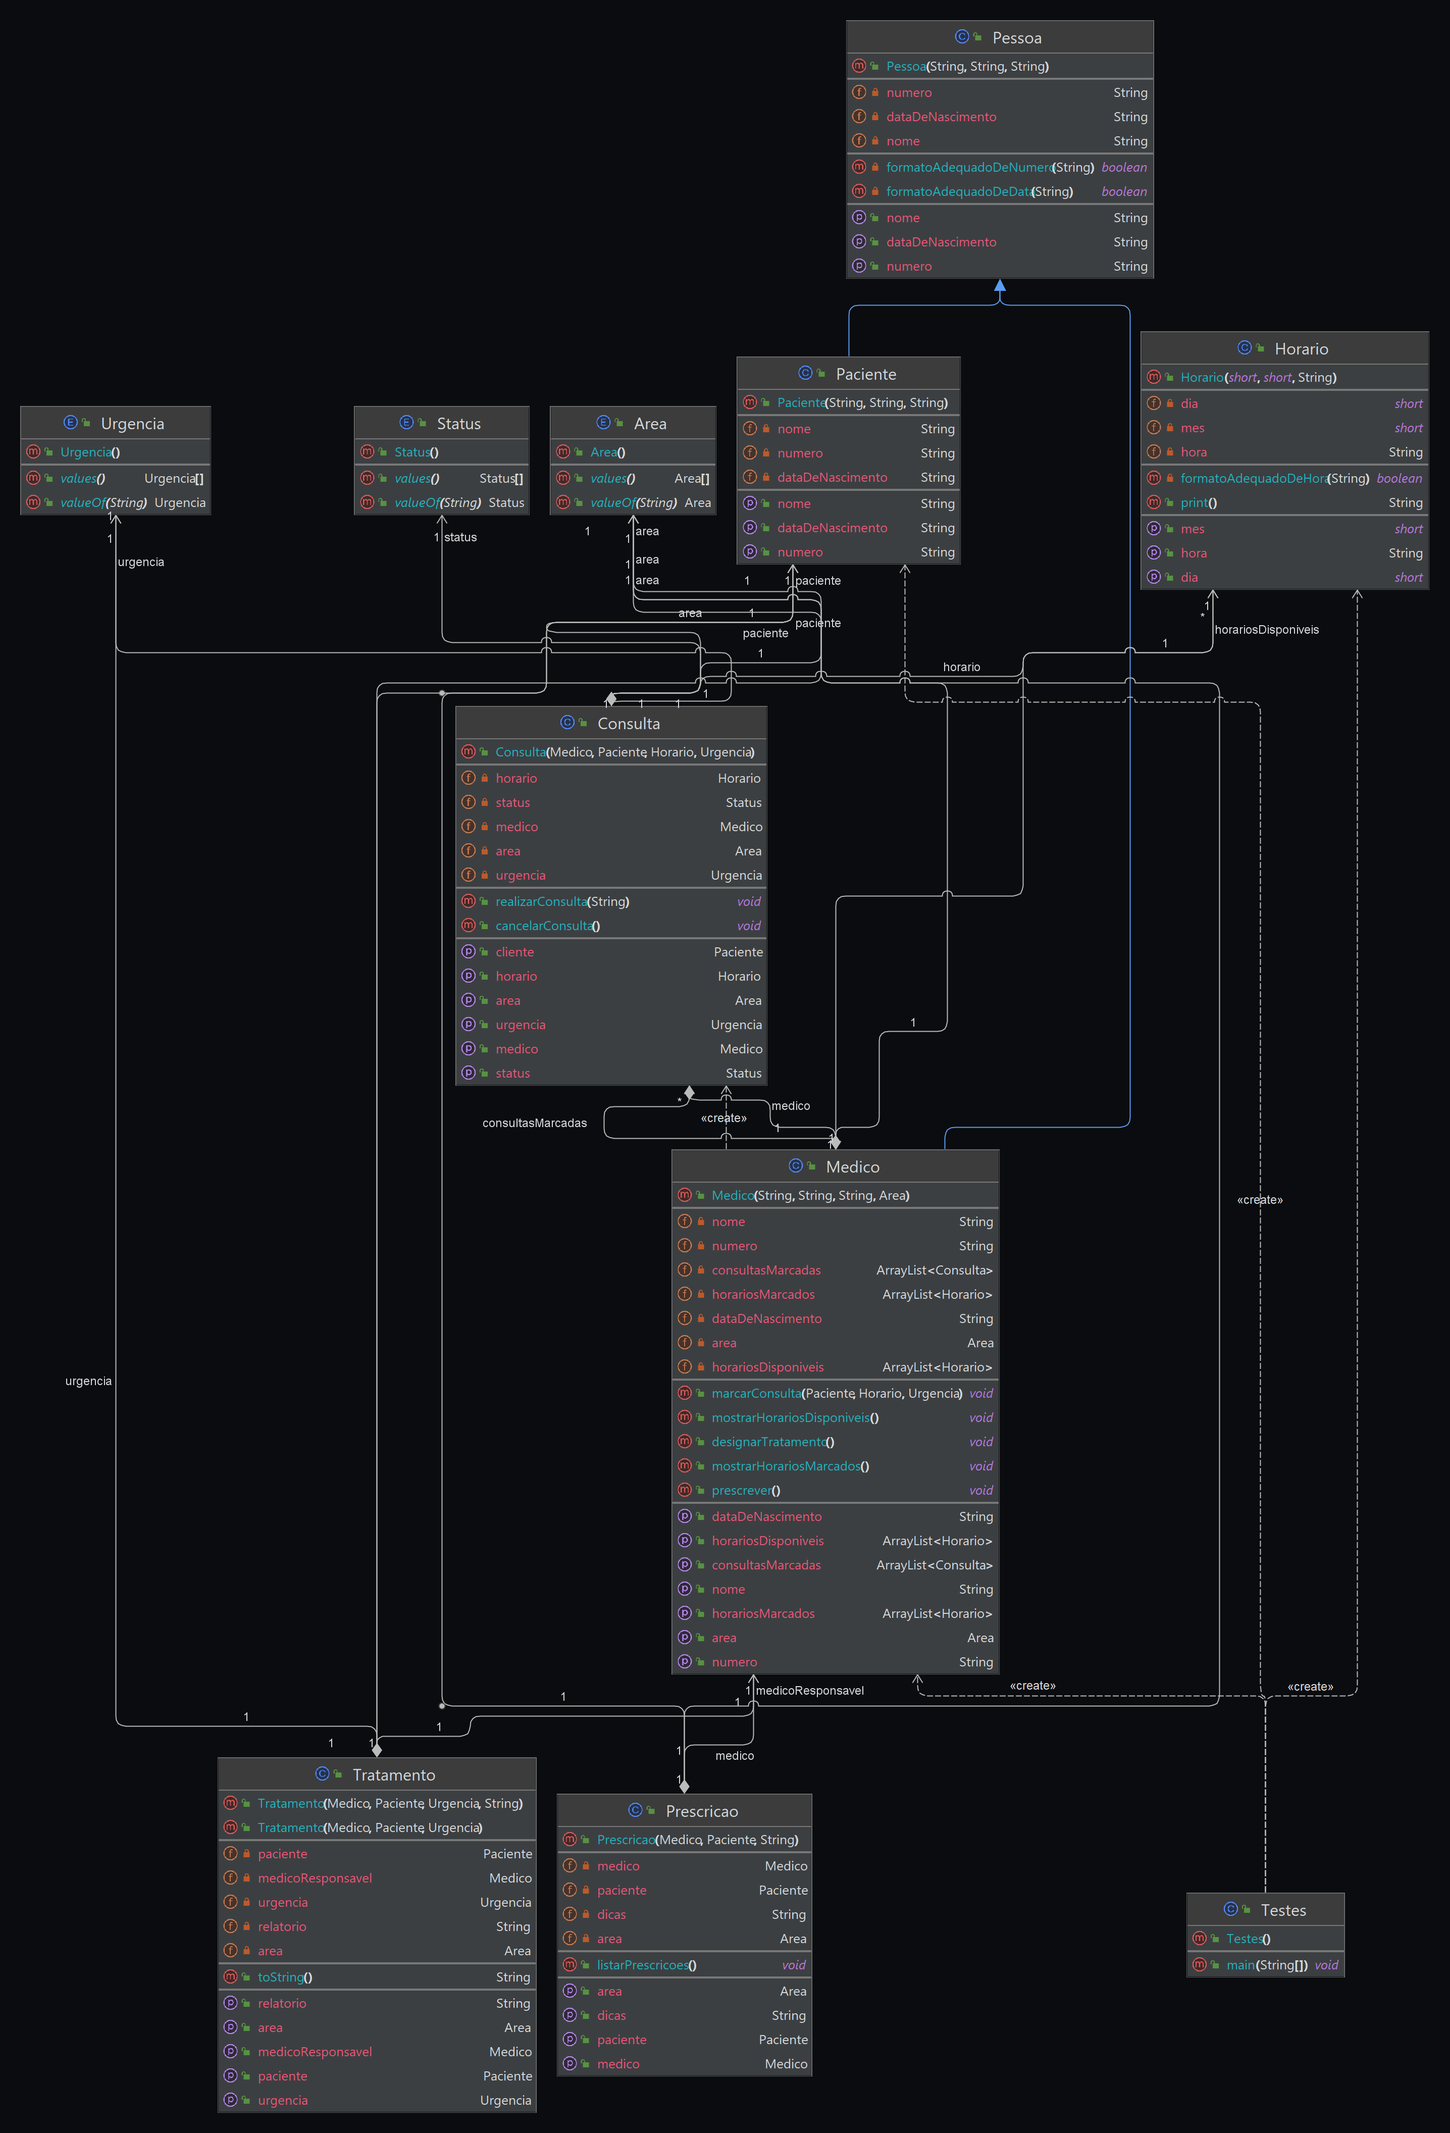
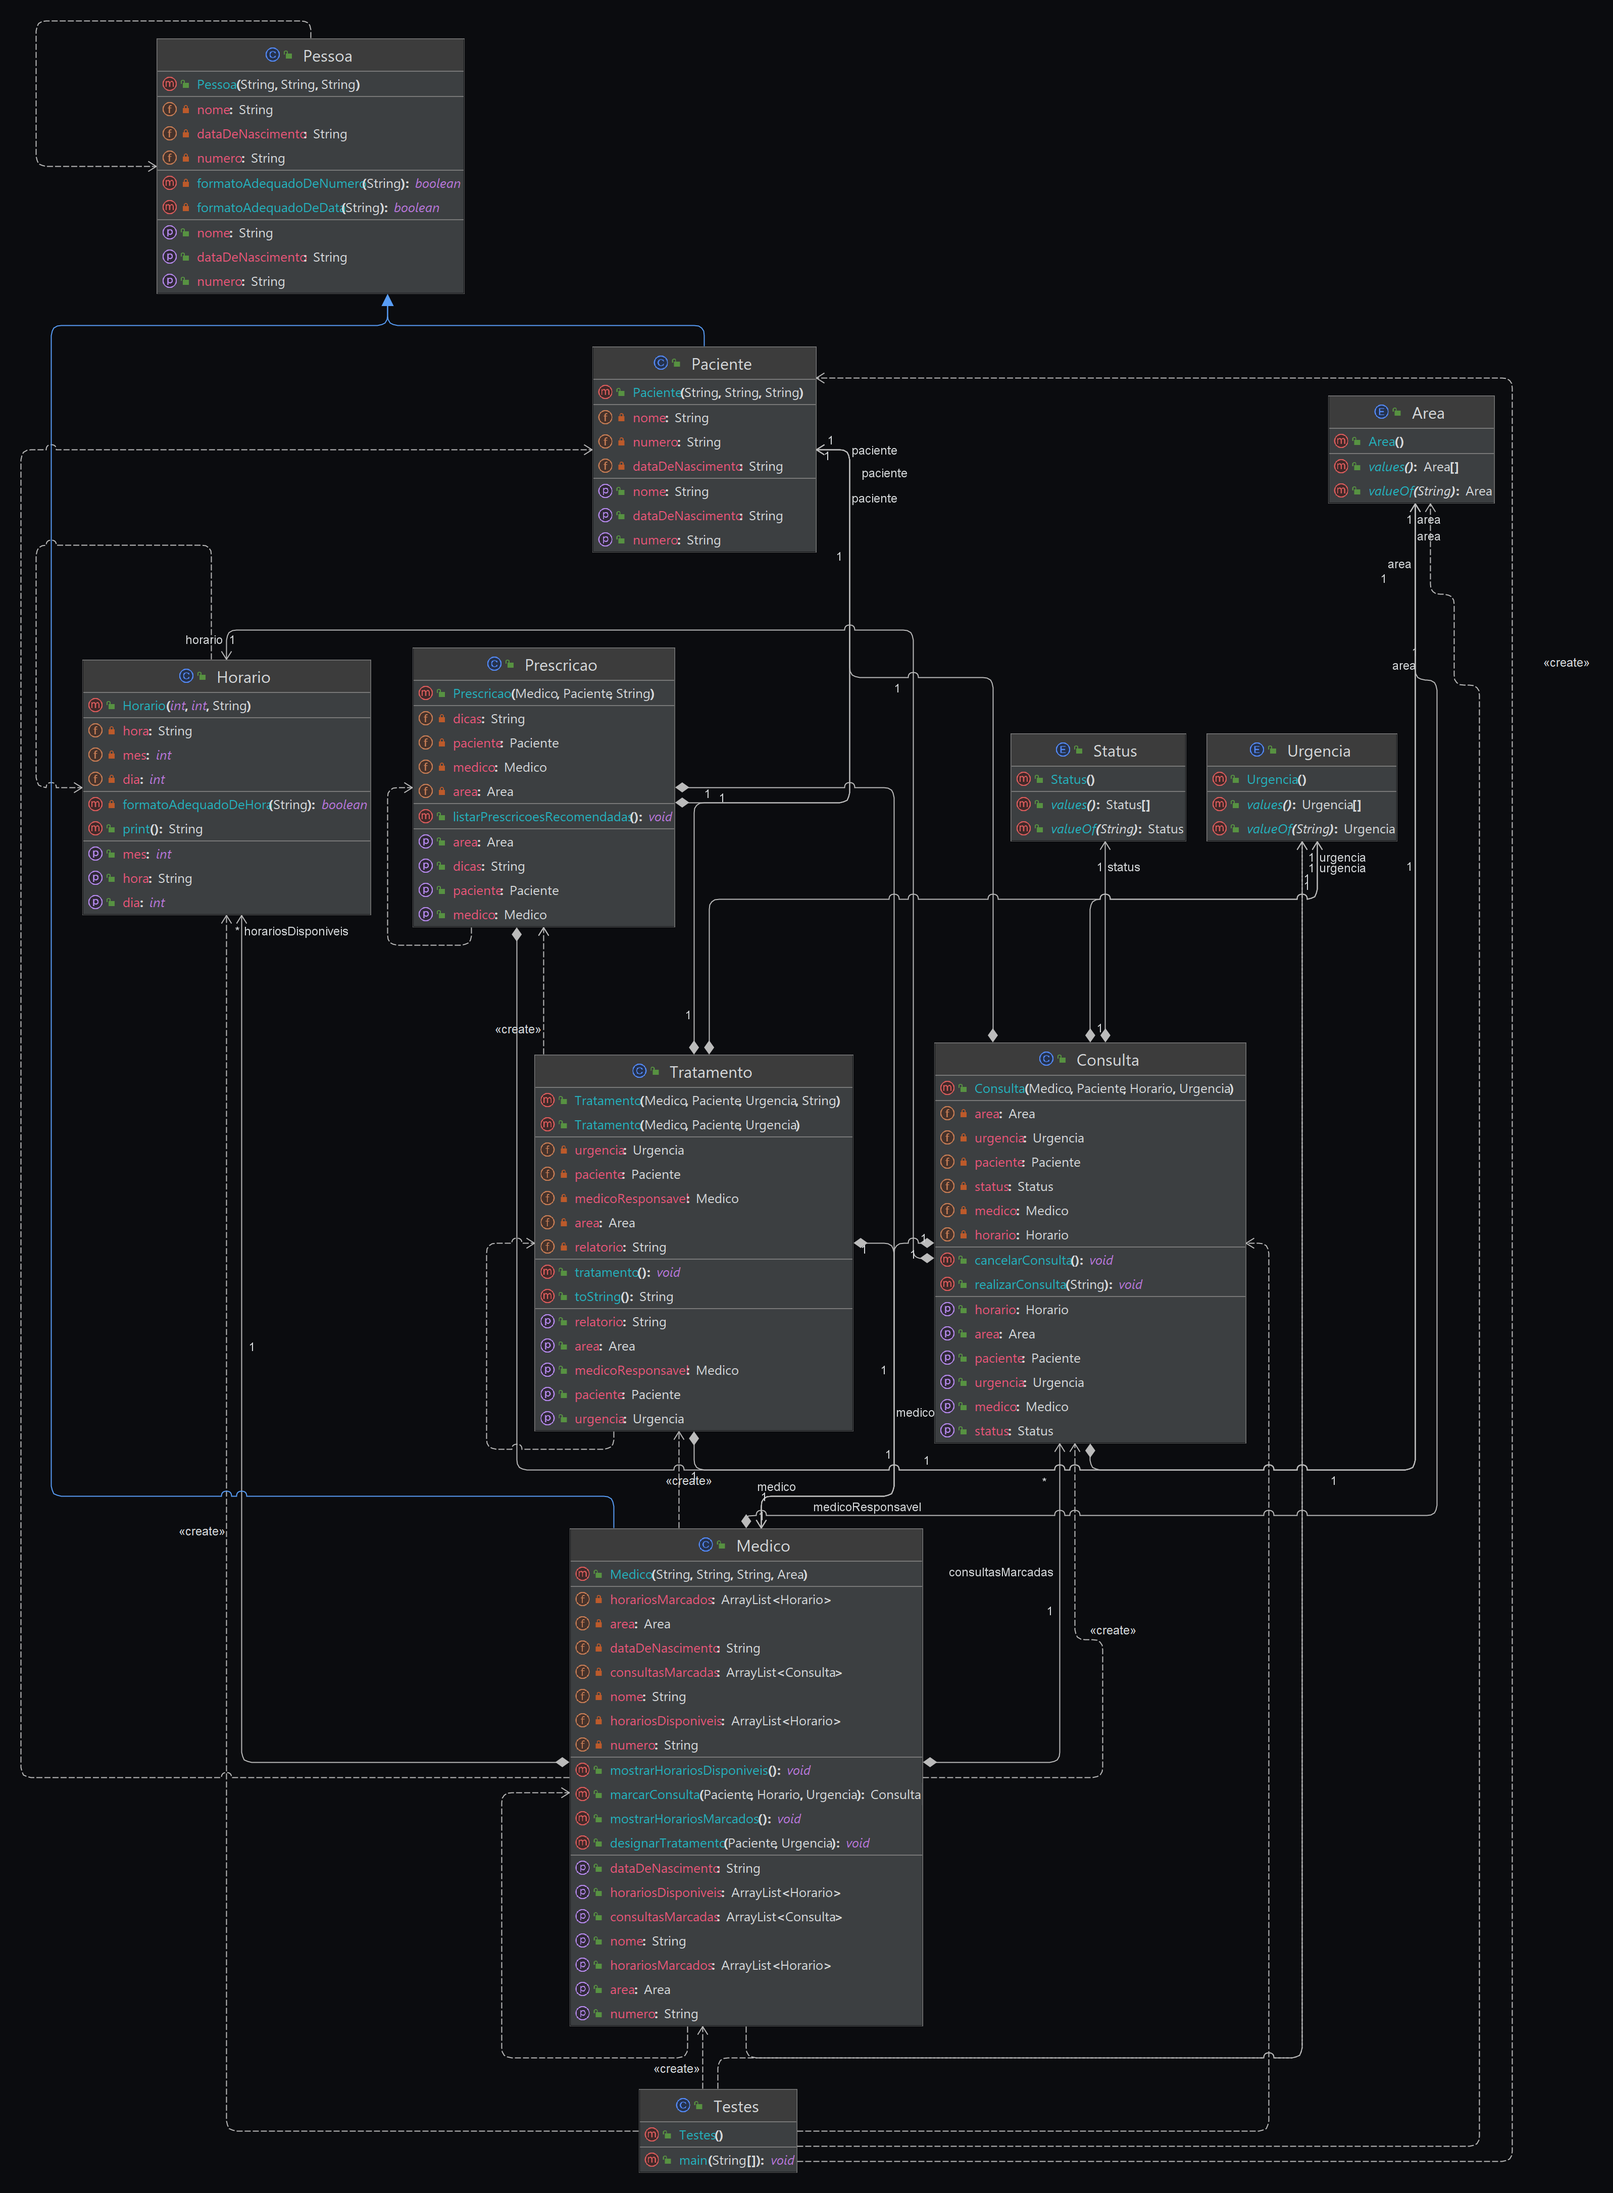
Conclusão parcial, para revisão

diff --git a/src/services/Prescricao.java b/src/services/Prescricao.java
@@ -6,13 +6,17 @@ import resources.Area;
 
 public class Prescricao {
 
-    private final Area area;
+    private Area area;
     private final Medico medico;
     private final Paciente paciente;
     private final String dicas;
 
     public Area getArea() {
         return area;
+    }
+
+    public void setArea(Area area) {
+        this.area = area;
     }
 
     public Medico getMedico() {
@@ -30,70 +34,93 @@ public class Prescricao {
     public Prescricao(Medico medico, Paciente paciente, String dicas){
         this.medico = medico;
         this.paciente = paciente;
-        this.area = medico.getArea();
+        this.setArea(medico.getArea());
         this.dicas = dicas;
     }
 
-    public void listarPrescricoes(){
+    public void listarPrescricoesRecomendadas(){
         switch (this.area) {
-            case Geral -> {
-                System.out.println("""
-                        (1) Paracetamol, para dor
-                        (2) Epinefrina (EpiPen), para alergia
-                        (3) Solução salína (soro caseiro) e boa alimentação, para desidratação ou dor leve
-                        """);
-            }
-            case Oncologia -> {
-                System.out.println("""
-                        (1) Quimioterapia
-                        (2) Radioterapia
-                        (3) Imunoterapia
-                        """);
-            }
-            case Pediatria -> {
-                System.out.println("""
-                        (1) Xarope
-                        (2) Colecalciferol (Vitamina D3)
-                        (3) Óxido de Zinco (bebês)
-                        """);
-            }
-            case Ortopedia -> {
-                System.out.println("""
-                        (1) Anti-inflamatório
-                        (2) Aparelho ortopédico para suporte
-                        (3) Gel de resfriamento
-                        """);
-            }
-            case Neurologia -> {
-                System.out.println("""
-                        (1) Anticonvulsivante para controle de epilepsia: Carbamazepina, Lamotrigina
-                        (2) Analgésico para enxaqueca: Sumatriptano
-                        (3) Fisioterapia neural
-                        """);
-            }
-            case Alergologia -> {
-                System.out.println("""
-                        (1) 
-                        (2) 
-                        (3) 
-                        """);
-            }
-            case Ginecologia -> {
-                System.out.println("""
-                        (1) Contraceptivo oral: Levonorgestrel + Etinilestradiol
-                        (2) Ácido Fólico (gestantes)
-                        (3) Ciprofloxacino (trato urinário)
-                        """);
-            }
-            case Odontologia -> {
-                System.out.println("""
-                        (1) Enxaguatório bucal para higiene oral: Clorexidina, Flúor
-                        (2) Analgésico para dor
-                        (3) Creme e fio dental
-                        """);
-            }
-
-            //(...)
+            case Geral -> System.out.println("""
+                    (1) Paracetamol, para dor
+                    (2) Epinefrina (EpiPen), para alergia
+                    (3) Solução salína (soro caseiro) e boa alimentação, para desidratação ou dor leve
+                    """);
+            case Oncologia -> System.out.println("""
+                    (1) Quimioterapia
+                    (2) Radioterapia
+                    (3) Imunoterapia
+                    """);
+            case Pediatria -> System.out.println("""
+                    (1) Xarope
+                    (2) Colecalciferol (Vitamina D3)
+                    (3) Óxido de Zinco (bebês)
+                    """);
+            case Ortopedia -> System.out.println("""
+                    (1) Anti-inflamatório
+                    (2) Aparelho ortopédico para suporte
+                    (3) Gel de resfriamento
+                    """);
+            case Neurologia -> System.out.println("""
+                    (1) Anticonvulsivante para controle de epilepsia: Carbamazepina, Lamotrigina
+                    (2) Analgésico para enxaqueca: Sumatriptano
+                    (3) Fisioterapia neural
+                    """);
+            case Alergologia -> System.out.println("""
+                    (1) Corticosteroides Nasais (Fluticasona) - Rinite
+                    (2) Antihistamínicos - Rinite
+                    (3) Corticosteroides Inalados (Budesonida) - Asma
+                    """);
+            case Ginecologia -> System.out.println("""
+                    (1) Contraceptivo oral: Levonorgestrel + Etinilestradiol
+                    (2) Ácido Fólico (gestantes)
+                    (3) Ciprofloxacino (trato urinário)
+                    """);
+            case Odontologia -> System.out.println("""
+                    (1) Enxaguatório bucal para higiene oral: Clorexidina, Flúor
+                    (2) Analgésico para dor
+                    (3) Creme e fio dental
+                    """);
+            case Cardiologia -> System.out.println("""
+                    (1) Anti-hipertensivo para controle da pressão arterial: Losartana, Atenolol
+                    (2) Aspirina para prevenção de eventos cardiovasculares: Ácido Acetilsalicílico
+                    (3) Estatina para controle do colesterol: Atorvastatina, Rosuvastatina
+                    """);
+            case Oftalmologia -> System.out.println("""
+                    (1) Colírio de Tobramicina ou Ofloxacino (Conjuntivite)
+                    (2) Colírios de Prostaglandinas ou Beta-bloqueadores (Glaucoma)
+                    (3) Colírio de Anti-inflamatório Não Esteroidal, Esteroidal ou de Antibiótico (Catarata)
+                    """);
+            case Hematologia -> System.out.println("""
+                    (1) Anemia Ferropriva: Suplemento de Ferro, Ácido Fólico, Vitamina B12\s
+                    (2) Leucemia Mieloide Aguda: Quimioterapia por Indução (Citarabina, Daunorrubicina) ou Transplante de Medula Óssea
+                    (3) Trombose Venosa Profunda: Anticoagulantes (Varfarina, Enoxaparina) ou Trombolíticos
+                    """);
+            case Psiquiatria -> System.out.println("""
+                    (1) Antidepressivo: Sertralina, Escitalopram
+                    (2) Ansiolítico: Alprazolam, Diazepam
+                    (3) Terapia cognitivo-comportamental: Tratamento não medicamentoso
+                    """);
+            case Dermatologia -> System.out.println("""
+                    (1) Creme hidratante
+                    (2) Pomada anti-inflamatória para eczema
+                    (3) Protetor solar de amplo espectro (FPS)
+                    """);
+            case Infectologia -> System.out.println("""
+                    (1) Antibióticos bacterianos (Infecção Respiratória Bacteriana)
+                    (2) Antibióticos e analgésicos (Infecção do Trato Urinário)
+                    (3) Terapia Antirretroviral e Profilaxia para Infecções Oportunistas (HIV/AIDS)
+                    """);
+            case Reumatologia -> System.out.println("""
+                    (1) Metotrexato, Sulfassalazina (artrite)
+                    (2) Tramadol, Codeína (dor)
+                    (3) Exercícios físicos
+                    """);
+            case Otorrinolaringologia -> System.out.println("""
+                    (1) Gotas de Ciprofloxacino, gotas de Corticosteroides e analgésicos para dor - Otite Externa
+                    (2) Antibióticos (Amoxicilina-Ácido Clavulânico), descongestionantes Nasais (Oximetazolina) - Sinusite
+                    (3) Antihistamínicos, Corticosteroides Nasais e Descongestionantes Nasais - Rinite alérgica
+                    """);
         }
+        if (!dicas.isEmpty()) System.out.println("Recomendações: " + getDicas());
     }
 }

diff --git a/src/services/Tratamento.java b/src/services/Tratamento.java
@@ -3,6 +3,8 @@ package services;
 import entities.*;
 import resources.*;
 
+import java.util.Scanner;
+
 public class Tratamento {
     private final Medico medicoResponsavel;
     private final Paciente paciente;
@@ -10,8 +12,6 @@ public class Tratamento {
     private final Area area;
 
     private String relatorio;
-
-    //Tratamento não tem horário fixo
 
     public Tratamento(Medico medicoResponsavel, Paciente paciente, Urgencia urgencia) {
         this.medicoResponsavel = medicoResponsavel;
@@ -55,7 +55,30 @@ public class Tratamento {
 
     @Override
     public String toString(){
-        return "Médico responsável: "+getMedicoResponsavel().getNome()+"\n"+"Cliente: "
-                +getPaciente().getNome()+"\n"+"Relatório: "+getRelatorio();
+        return "Médico responsável: " + getMedicoResponsavel().getNome() + "\n" + "Cliente: " + getPaciente().getNome();
+    }
+
+    public void tratamento(){
+        Scanner scanner = new Scanner(System.in);
+        System.out.print("O paciente mostra sinais reais da doença específica da área? (S/N)" +
+                "\nR: ");
+        String resp = scanner.next().toUpperCase();
+        scanner.close();
+        System.out.println("-----------------------\nO tratamento indicado é:");
+        System.out.println(this.toString());
+        switch (resp) {
+            case "S":
+                Prescricao prescricao1 = new Prescricao(this.getMedicoResponsavel(), this.getPaciente(), this.getRelatorio());
+                prescricao1.listarPrescricoesRecomendadas();
+                break;
+            case "N":
+                Prescricao prescricao2 = new Prescricao(this.getMedicoResponsavel(), this.getPaciente(), this.getRelatorio());
+                prescricao2.setArea(Area.Geral);
+                prescricao2.listarPrescricoesRecomendadas();
+                break;
+            default:
+                System.out.println("Erro!");
+                throw new RuntimeException("Resposta inválida!");
+        }
     }
 }

diff --git a/src/entities/Medico.java b/src/entities/Medico.java
@@ -1,6 +1,8 @@
 package entities;
 
 import java.util.ArrayList;
+import java.util.Scanner;
+
 import resources.*;
 import services.*;
 
@@ -101,21 +103,20 @@ public class Medico extends Pessoa {
         }
     }
 
-    public void marcarConsulta(Paciente paciente, Horario horario, Urgencia urgencia){
-        this.getConsultasMarcadas().add(new Consulta(this, paciente, horario, urgencia));
+    public Consulta marcarConsulta(Paciente paciente, Horario horario, Urgencia urgencia){
+        Consulta c = new Consulta(this, paciente, horario, urgencia);
+        this.getConsultasMarcadas().add(c);
         System.out.println("Consulta com o paciente " + paciente.getNome() + " marcada com o Doutor " +
                 this.getNome() + " para o dia " + horario.getDia() + "/" + horario.getMes() + ", " + horario.getHora() + ".");
-
+        return c;
     }
 
-    public void designarTratamento(){
-
-        System.out.println("--------------------\nEscolha a opção de tratamento:");
-    }
-
-    public void prescrever(){
-
-        System.out.println("--------------------\nEscolha a opção de tratamento:");
-
+    public void designarTratamento(Paciente paciente, Urgencia urgencia){
+        Tratamento tratamento = new Tratamento(this, paciente, urgencia);
+        Scanner sc = new Scanner(System.in);
+        System.out.print("Relatório: ");
+        String s = sc.nextLine();
+        if (s.length() > 5) tratamento.setRelatorio(s);
+        tratamento.tratamento();
     }
 }

diff --git a/src/resources/Horario.java b/src/resources/Horario.java
@@ -1,23 +1,23 @@
 package resources;
 
 public class Horario {
-    private short dia;
-    private short mes;
+    private int dia;
+    private int mes;
     private String hora;
 
-    public short getDia() {
+    public int getDia() {
         return dia;
     }
 
-    public void setDia(short dia) {
+    public void setDia(int dia) {
         this.dia = dia;
     }
 
-    public short getMes() {
+    public int getMes() {
         return mes;
     }
 
-    public void setMes(short mes) {
+    public void setMes(int mes) {
         this.mes = mes;
     }
 
@@ -29,7 +29,7 @@ public class Horario {
         this.hora = hora;
     }
 
-    public Horario(short dia, short mes, String hora){
+    public Horario(int dia, int mes, String hora){
         this.setDia(dia);
         this.setMes(mes);
         if (this.formatoAdequadoDeHora(hora)) this.setHora(hora);

diff --git a/src/services/Consulta.java b/src/services/Consulta.java
@@ -11,7 +11,7 @@ public class Consulta {
     private final Urgencia urgencia;
     private Status status;
 
-    public Paciente getCliente() {
+    public Paciente getPaciente() {
         return paciente;
     }
 
@@ -57,7 +57,7 @@ public class Consulta {
 
     public void realizarConsulta(String orientacoes){
         this.setStatus(Status.Realizada);
-        System.out.println("Consulta realizada. \n Orientações: " + orientacoes + "\n\nTratamento:");
-        this.getMedico().designarTratamento();
+        System.out.println("Consulta realizada. \nOrientações: " + orientacoes + "\n");
+        this.getMedico().designarTratamento(this.getPaciente(), this.getUrgencia());
     }
 }

diff --git a/src/Testes.java b/src/Testes.java
@@ -97,6 +97,13 @@ public class Testes {
                 }
             }
         }
+
+
+        Medico medico = new Medico("Gilberto Heizenberg", "(11)96783-1420", "17/12/1970", Area.Cardiologia);
+        Paciente paciente = new Paciente("Mário Rodrigues Santos", "(11)99627-3467", "02/10/1985");
+        Consulta consulta = medico.marcarConsulta(paciente, new Horario(10, 12, "14:00"), Urgencia.Triagem);
+        consulta.realizarConsulta("Após a consulta, o paciente deve seguir o tratamento " +
+                "e fazer uma nova consulta após um tempo adequado.");
     }
 }
 

diff --git a/src/resources/Area.java b/src/resources/Area.java
@@ -2,5 +2,5 @@ package resources;
 
 public enum Area {
     Geral, Pediatria, Cardiologia, Dermatologia, Ginecologia, Ortopedia, Oftalmologia, Neurologia, Psiquiatria,
-    Odontologia, Reumatologia, Otorrinolaringologia, Oncologia, Nefrologia, Hematologia, Alergologia, Infectologia
+    Odontologia, Reumatologia, Otorrinolaringologia, Oncologia, Hematologia, Alergologia, Infectologia
 }
